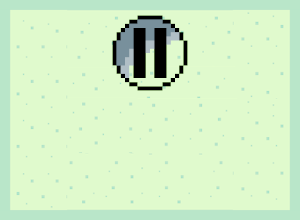
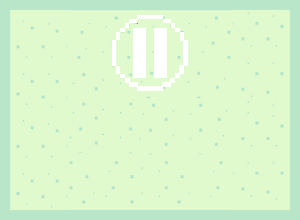
Nuevo popup de terminar nivel

Changed region(s): [[0.36, 0.0545, 0.63, 0.4364]]

diff --git a/managers/game_manager.py b/managers/game_manager.py
@@ -19,7 +19,7 @@ from game.ui.ui_text import Message
 from managers.prototypes.scene_prototype import Scene
 from utils.constants import *
 from utils.i18n import get_translation
-from utils.paths.assets_paths import FONT, POPUP_IMAGE_PAUSE, POPUP_IMAGE_DEATH
+from utils.paths.assets_paths import FONT, POPUP_IMAGE_PAUSE, POPUP_IMAGE_DEATH, POPUP_IMAGE_LEVEL
 from utils.paths.maps_paths import LEVEL_1
 
 
@@ -116,7 +116,7 @@ class GameManager(Scene):
         if self.player.in_door():  # Player has reached the end
             if self.player.has_key():
                 self.audio.play_finish()
-                self.exit()
+                self.open_menu(self.finished_level_menu)
 
         if self.player.has_key() and self.player.interacted_key():
             self.audio.play_key()
@@ -280,8 +280,38 @@ class GameManager(Scene):
             identifier=DIE_MENU_ID,
             background_path=POPUP_IMAGE_DEATH
         )
+        finished_level_menu = InfoBox(
+            "",
+            [
+                [
+                    Button(
+                        title=get_translation(self.manager.get_language(), 'next level'),
+                        callback=lambda: self.exit(),
+                        size=(BUTTON_SIZE[0], BUTTON_SIZE[1]),
+                        text_hover_color=PURPLE,
+                        font=pygame.font.Font(FONT, 16),
+                        no_background=True
+                    )
+                ],
+                [
+                    Button(
+                        title=get_translation(self.manager.get_language(), 'main menu'),
+                        callback=lambda: self._close(),
+                        size=(BUTTON_SIZE[0], BUTTON_SIZE[1]),
+                        text_hover_color=PURPLE,
+                        font=pygame.font.Font(FONT, 16),
+                        no_background=True
+                    )
+                ],
+            ],
+            width=300,
+            has_close_button=False,
+            identifier=LEVEL_MENU_ID,
+            background_path=POPUP_IMAGE_LEVEL
+        )
         self.pause_menu = pause_menu
         self.death_menu = die_menu
+        self.finished_level_menu = finished_level_menu
 
     def _set_interface(self):
         bar = Bar(self.win)

diff --git a/utils/i18n.py b/utils/i18n.py
@@ -22,7 +22,8 @@ traducciones = {
         '8': "Pelayo Vieites Pérez",
         'resume': 'CONTINUAR',
         'restart': 'REINICIAR',
-        'main menu': 'MENU PRINCIPAL'
+        'main menu': 'MENU PRINCIPAL',
+        'next level': 'SIGUIENTE NIVEL'
     },
     'en': {
         'play': 'PLAY',
@@ -47,7 +48,8 @@ traducciones = {
         '8': "Pelayo Vieites Pérez",
         'resume': 'RESUME',
         'restart': 'RESTART',
-        'main menu': 'MAIN MENU'
+        'main menu': 'MAIN MENU',
+        'next level': 'NEXT LEVEL'
     }
 }
 

diff --git a/utils/paths/assets_paths.py b/utils/paths/assets_paths.py
@@ -36,6 +36,7 @@ ARROWS_IMAGE = MENU_ASSETS + 'arrows.png'
 POPUP_IMAGE = IMAGES_BACKGROUND + 'popup_img.png'
 POPUP_IMAGE_PAUSE = IMAGES_BACKGROUND + 'popup_img_pause_trans.png'
 POPUP_IMAGE_DEATH = IMAGES_BACKGROUND + 'popup_img_death_trans.png'
+POPUP_IMAGE_LEVEL = IMAGES_BACKGROUND + 'popup_img_level_trans.png'
 
 # ====*====*====*====*====*====*====*====*====*====*====*====*====*====*====*====*====*====*====#
 #                                        PATH TO MUSIC ELEMENTS                                 #

diff --git a/utils/constants.py b/utils/constants.py
@@ -58,6 +58,7 @@ FONT_PERCENT = 0.06
 
 PAUSE_MENU_ID = "pause_menu"
 DIE_MENU_ID = "die_menu"
+LEVEL_MENU_ID = "level menu"
 
 # ####################################################################### #
 #                               PATH CONSTANTS                            #

diff --git a/managers/audio_manager.py b/managers/audio_manager.py
@@ -60,7 +60,6 @@ class AudioManager:
     def play_finish(self):
         self.pause()
         self.sound_finish_level.play()
-        pygame.time.wait(3500)
 
     def play_key(self):
         self.sound_pick_up_key.play()
